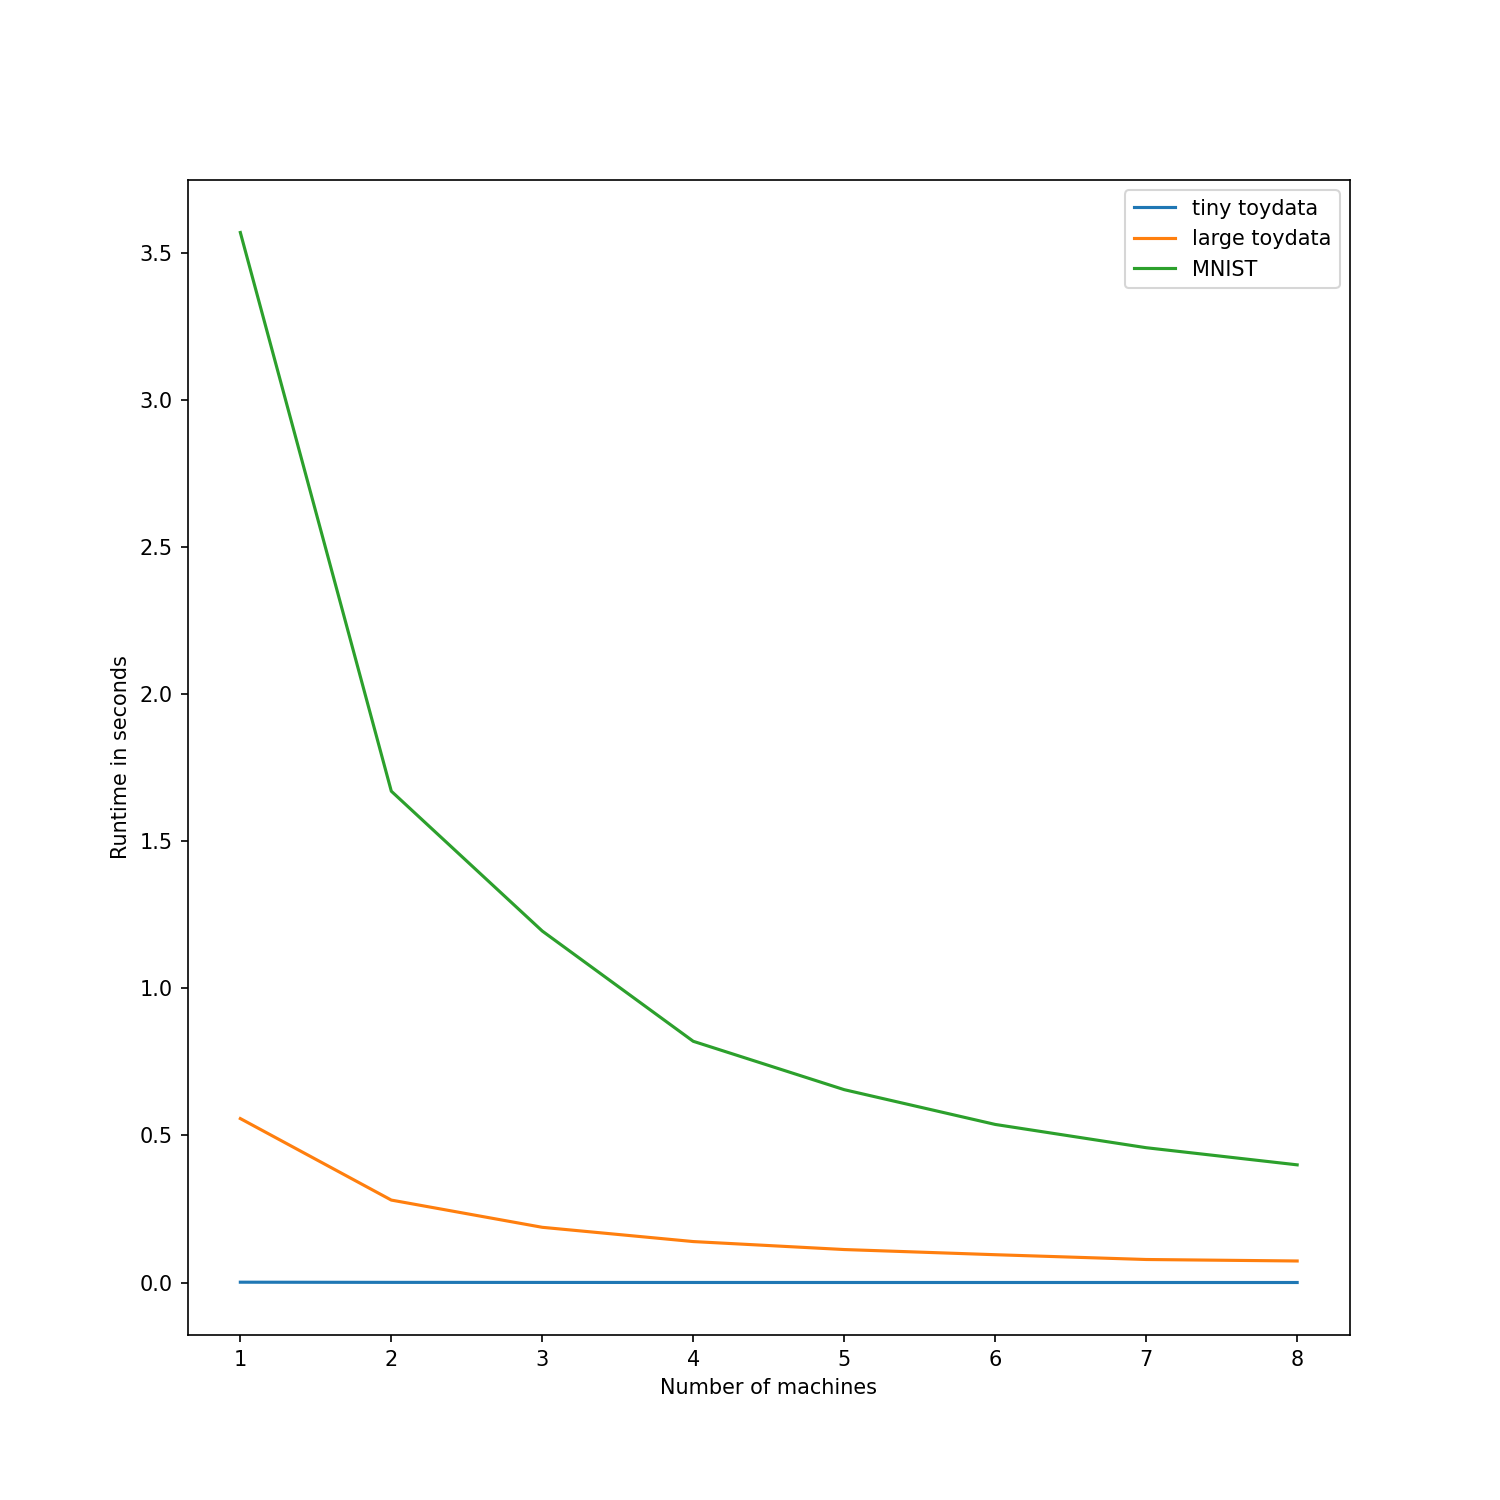
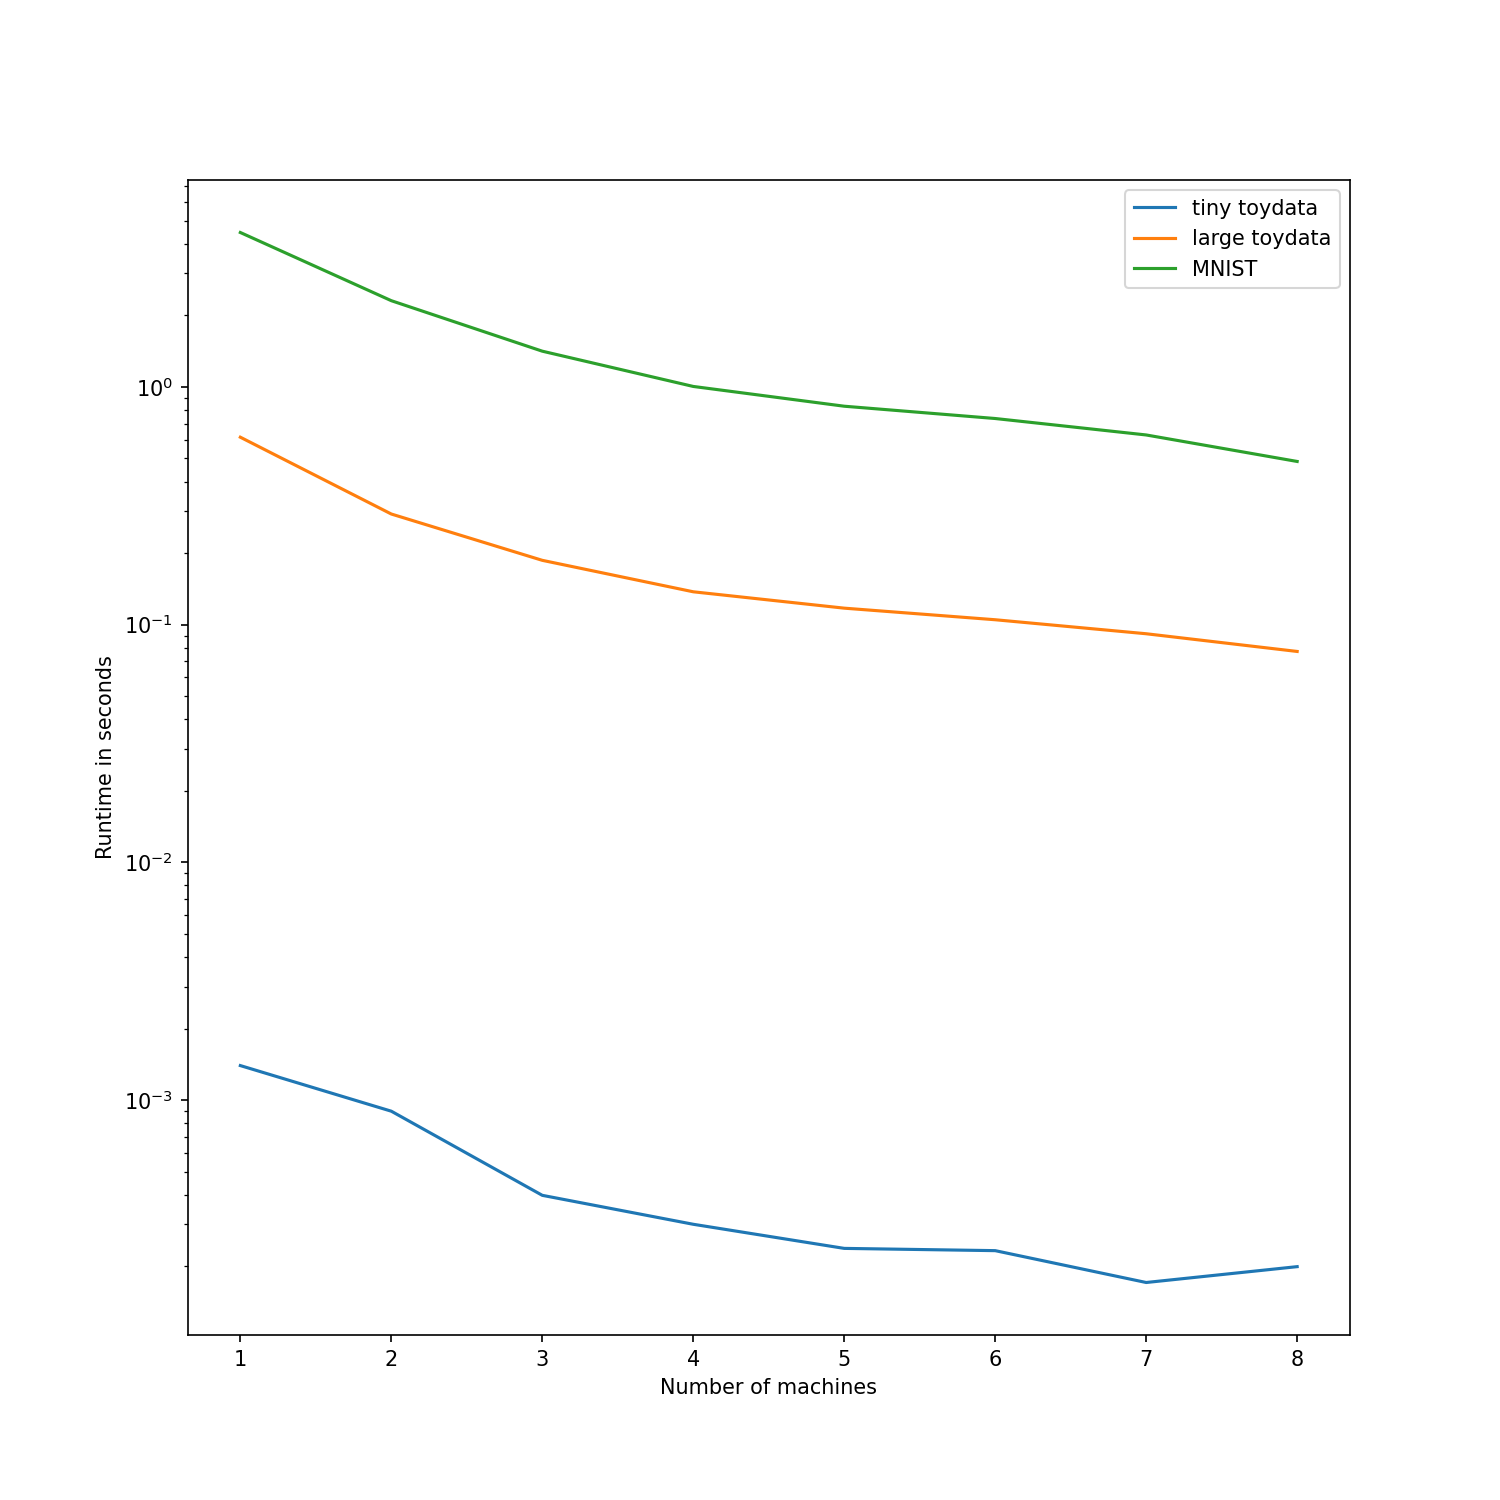
Eventually finally done.

diff --git a/runner_mnist.py b/runner_mnist.py
@@ -72,7 +72,7 @@ def runner_mnist(path):
     # Create RFF features for the upcoming gridsearch procedure
     print('\n--- Compute RFF features ---')
     start = time.time()
-    nlf = NonLinearFeatures(m=800, sigma=150)
+    nlf = NonLinearFeatures(m=1000, sigma=150)
     X_rff_train = nlf.fit_transform(X_train)
     X_rff_test = nlf.transform(X_test)
     end = time.time()
@@ -141,8 +141,8 @@ def runner_mnist(path):
         accuracies_sklearn.append(accuracy)
 
     fig, axs = plt.subplots(2, 1)
-    axs[0].plot(training_size, runtimes_sequential_rff, label='sequential RFF')
-    axs[0].plot(training_size, runtimes_sklearn, label='sklearn')
+    axs[0].semilogy(training_size, runtimes_sequential_rff, label='sequential RFF')
+    axs[0].semilogy(training_size, runtimes_sklearn, label='sklearn')
     axs[0].set_xticks(training_size)
     axs[0].set_ylabel('runtime in seconds')
     axs[0].legend()

diff --git a/utils.py b/utils.py
@@ -107,7 +107,7 @@ def two_dim_scatterplot(data, labels, path):
 
     x1, x2 = data[:, 0], data[:, 1]
     plt.figure(figsize=(10, 10))
-    plt.scatter(x1, x2, c=labels)
+    plt.scatter(x1, x2, c=labels, cmap='coolwarm')
     plt.tick_params(axis='x', which='both', bottom='off', top='off', labelbottom='off')
     plt.tick_params(axis='y', which='both', left='off', top='off', labelleft='off')
     plt.xlabel(r"$x_1$", fontsize=14)

diff --git a/svm.py b/svm.py
@@ -1,5 +1,4 @@
 import numpy as np
-from joblib import Parallel, delayed
 
 
 class SequentialSVM:

diff --git a/README.md b/README.md
@@ -1,0 +1,46 @@
+13.05.2022
+
+Mining Massive Data
+Programming Assignment 2
+
+Group 12: 
+Daniel Rose 12025566
+Roxane Jacob 12030167
+
+This project contains the code for the Programming Assignment 2 for the 
+University course Mining Massive Data (Summer Term 2022)
+at the University of Vienna.
+
+The root folder contains the file main.py. You can run the program simply
+by executing
+
+python main.py
+
+from your command line. Make sure that you run the command from the root folder
+and that you have all requirements installed. The necessary requirements can be
+found within requirements.txt.
+
+Running the script will perform several experiments and will create the 
+corresponding plots as output files. Accuracies etc. will be printed in the command line.
+Running the script will take approximately 10 minutes depending on the performance of your machine.
+
+The project is structured as follows:
+
+SDM_PA_Task1/
+  - data/
+  - output/
+  - main.py
+  - runner_mnist.py
+  - runner_svm_models.py
+  - runner_toydata.py
+  - svm.py
+  - utils.py
+
+data: 
+Contains the input data.
+
+output: 
+Contains the generated plots from the experiments.
+
+utils.py: 
+Contains helper functions for data imports and plotting.
